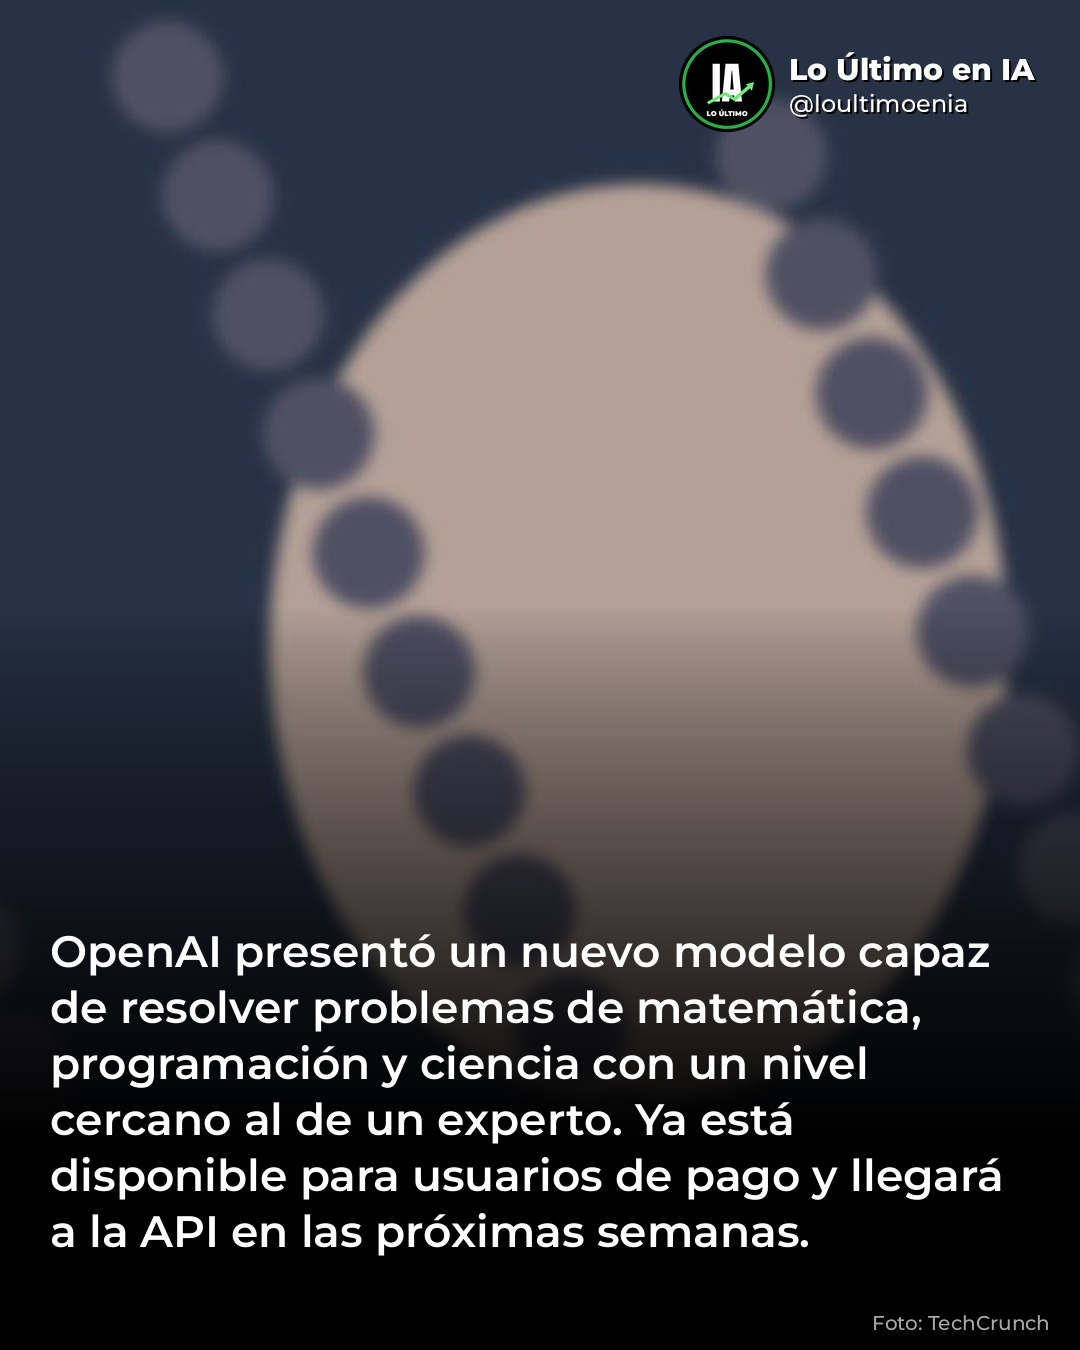
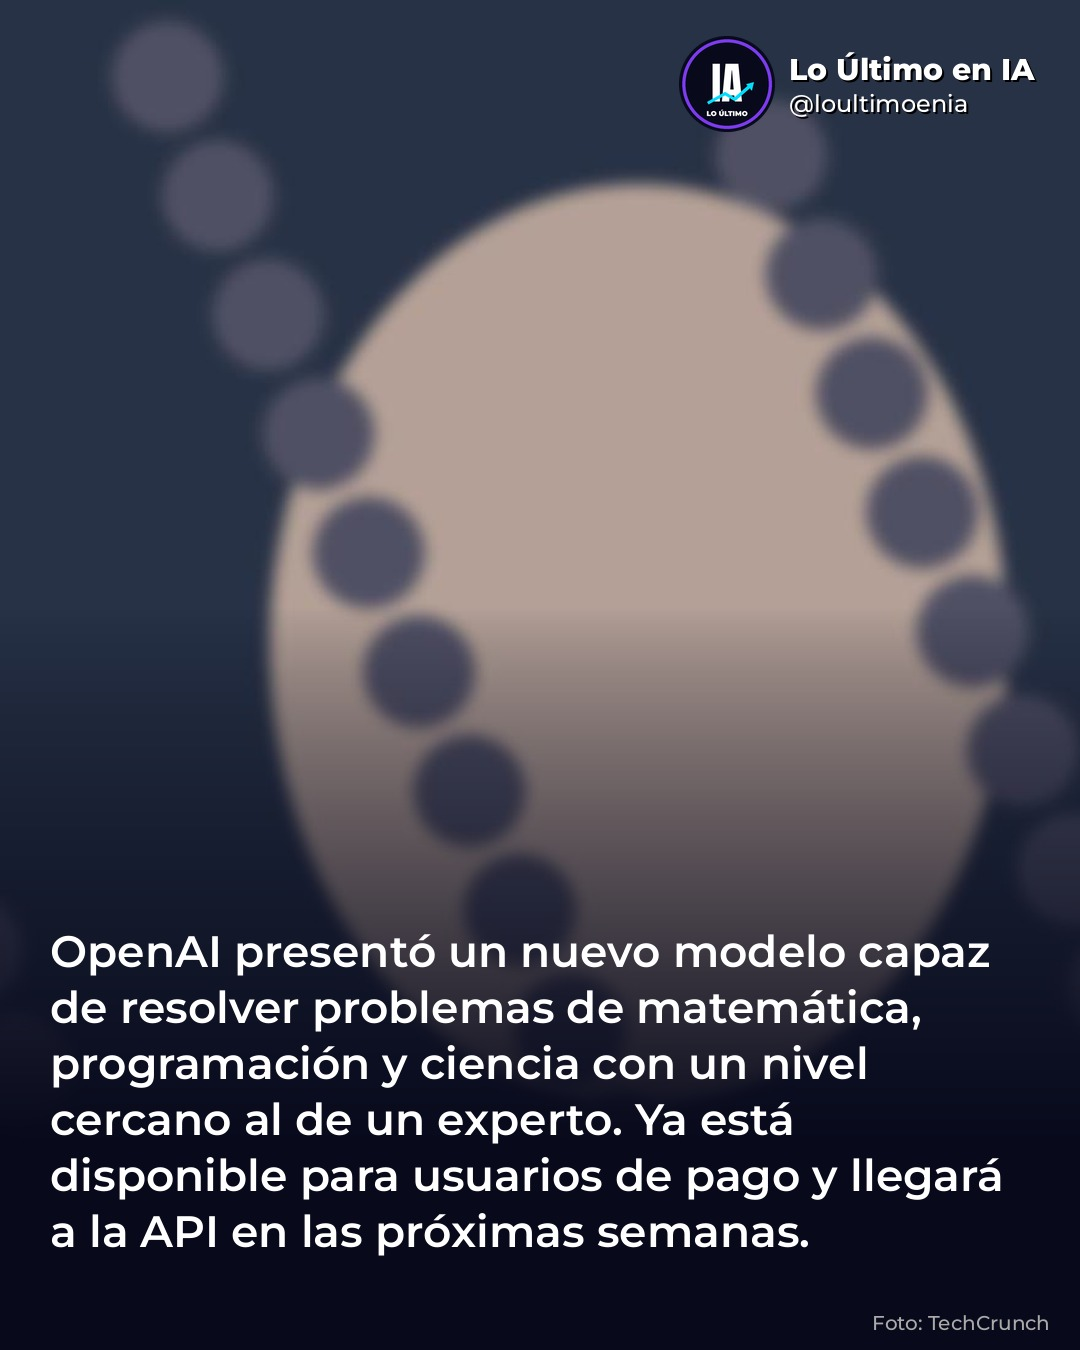
Paleta propia (azul noche, celeste, violeta) y frase de cierre nueva
Claude-Session: https://claude.ai/code/session_012Gu8g4RCfoxpHGCowxeo5P

Changed region(s): [[0.0, 0.7467, 1.0, 1.0], [0.6111, 0.0311, 0.7333, 0.0933]]

diff --git a/src/render.py b/src/render.py
@@ -8,7 +8,7 @@ from pathlib import Path
 import requests
 from PIL import Image, ImageDraw, ImageFilter, ImageFont, ImageOps
 
-from config import BLACK, BRAND_NAME, FONTS, GREEN, GREEN_DARK, HANDLE, SIZE, WHITE
+from config import ACCENT, BG, BRAND_NAME, FONTS, HANDLE, SIZE, VIOLET, VIOLET_DARK, WHITE
 
 W, H = SIZE
 UA = {"User-Agent": "Mozilla/5.0 (compatible; news-carousel-bot/1.0)"}
@@ -41,9 +41,9 @@ def load_image(src: str | Path | None) -> Image.Image:
         return img.convert("RGB")
     except Exception:
         # sin foto: fondo oscuro con brillo verde
-        img = Image.new("RGB", SIZE, (8, 12, 10))
+        img = Image.new("RGB", SIZE, BG)
         d = ImageDraw.Draw(img)
-        d.ellipse((-300, -200, W + 300, H - 300), fill=(20, 70, 35))
+        d.ellipse((-300, -200, W + 300, H - 300), fill=VIOLET_DARK)
         return img.filter(ImageFilter.GaussianBlur(160))
 
 
@@ -63,7 +63,7 @@ def bottom_gradient(img: Image.Image, start: float, strength: int = 255) -> Imag
     for y in range(img.height):
         v = 0 if y < s else min(strength, int(strength * ((y - s) / (img.height - s)) ** 0.8 * 1.3))
         grad.putpixel((0, y), v)
-    black = Image.new("RGB", img.size, BLACK)
+    black = Image.new("RGB", img.size, BG)
     return Image.composite(black, img, grad.resize(img.size))
 
 
@@ -106,7 +106,7 @@ def draw_marked_block(draw, words, top, max_w, max_h, max_size=118, min_size=60,
         total = sum(draw.textlength(w, font=font) for w, _ in line) + space * (len(line) - 1)
         x = (W - total) / 2
         for w, hl in line:
-            draw.text((x, y), w, font=font, fill=GREEN if hl else WHITE)
+            draw.text((x, y), w, font=font, fill=ACCENT if hl else WHITE)
             x += draw.textlength(w, font=font) + space
         y += lh
     return y
@@ -121,16 +121,16 @@ def make_logo(size: int = 200) -> Image.Image:
     s = size * 4  # supersampling
     img = Image.new("RGBA", (s, s), (0, 0, 0, 0))
     d = ImageDraw.Draw(img)
-    d.ellipse((0, 0, s - 1, s - 1), fill=(0, 0, 0, 255))
+    d.ellipse((0, 0, s - 1, s - 1), fill=BG + (255,))
     ring = int(s * 0.035)
-    d.ellipse((ring, ring, s - ring, s - ring), outline=GREEN_DARK, width=ring)
+    d.ellipse((ring, ring, s - ring, s - ring), outline=VIOLET, width=ring)
     f = anton(int(s * 0.46))
     tw = d.textlength("IA", font=f)
     d.text(((s - tw) / 2, s * 0.14), "IA", font=f, fill=WHITE)
     # flecha de "lo último"
     d.line([(s * 0.30, s * 0.70), (s * 0.48, s * 0.60), (s * 0.58, s * 0.66), (s * 0.74, s * 0.52)],
-           fill=GREEN, width=int(s * 0.035), joint="curve")
-    d.polygon([(s * 0.78, s * 0.48), (s * 0.70, s * 0.50), (s * 0.76, s * 0.57)], fill=GREEN)
+           fill=ACCENT, width=int(s * 0.035), joint="curve")
+    d.polygon([(s * 0.78, s * 0.48), (s * 0.70, s * 0.50), (s * 0.76, s * 0.57)], fill=ACCENT)
     f2 = mont(int(s * 0.075), "Black")
     t = "LO ÚLTIMO"
     tw = d.textlength(t, font=f2)
@@ -160,28 +160,26 @@ def credit(img, text):
 
 # ---------- slides ----------
 def slide_cover(photo, headline: str, badge: str, photo_credit: str) -> Image.Image:
-    img = Image.new("RGB", SIZE, BLACK)
+    img = Image.new("RGB", SIZE, BG)
     ph_h = int(H * 0.60)
     ph = bottom_gradient(cover(photo, (W, ph_h)), 0.55)
     img.paste(ph, (0, 0))
     d = ImageDraw.Draw(img)
 
     if badge:
-        r = 190
-        cx, cy = 20 + r - 60, int(ph_h * 0.42)
-        d.ellipse((cx - r, cy - r, cx + r, cy + r), fill=GREEN_DARK)
-        size = 92
-        while size > 30 and d.textlength(badge.upper(), font=anton(size)) > r * 1.45:
-            size -= 4
-        f = anton(size)
-        tw = d.textlength(badge.upper(), font=f)
-        d.text((cx - tw / 2 + 20, cy - size * 0.62), badge.upper(), font=f, fill=WHITE)
+        f = anton(72)
+        t = badge.upper()
+        tw = d.textlength(t, font=f)
+        bx, by = 40, 40
+        d.rounded_rectangle((bx + 6, by + 8, bx + tw + 66, by + 118), radius=24, fill=VIOLET_DARK)
+        d.rounded_rectangle((bx, by, bx + tw + 60, by + 110), radius=24, fill=VIOLET)
+        d.text((bx + 30, by + 8), t, font=f, fill=WHITE)
 
     # línea con el logo al centro
     ly = ph_h - 10
     logo = make_logo(84)
-    d.line([(40, ly), (W / 2 - 60, ly)], fill=(200, 200, 200), width=3)
-    d.line([(W / 2 + 60, ly), (W - 40, ly)], fill=(200, 200, 200), width=3)
+    d.line([(40, ly), (W / 2 - 60, ly)], fill=ACCENT, width=3)
+    d.line([(W / 2 + 60, ly), (W - 40, ly)], fill=ACCENT, width=3)
     img.paste(logo, (W // 2 - 42, ly - 42), logo)
 
     end_y = draw_marked_block(d, parse_marked(headline), ly + 55, W - 110, H - ly - 200)
@@ -213,11 +211,11 @@ def slide_story(photo, text: str, photo_credit: str, zoom=1.0, focus=(0.5, 0.3))
 
 
 def slide_cta() -> Image.Image:
-    img = Image.new("RGB", SIZE, BLACK)
+    img = Image.new("RGB", SIZE, BG)
     d = ImageDraw.Draw(img)
     # tarjeta de perfil
     x0, y0, x1, y1 = 70, 70, W - 70, 660
-    d.rounded_rectangle((x0, y0, x1, y1), radius=60, outline=WHITE, width=14, fill=(5, 5, 5))
+    d.rounded_rectangle((x0, y0, x1, y1), radius=60, outline=ACCENT, width=10, fill=(14, 18, 44))
     f = mont(46, "Bold")
     d.text((x0 + 60, y0 + 60), "←", font=f, fill=WHITE)
     d.text((x0 + 150, y0 + 58), HANDLE.lstrip("@"), font=f, fill=WHITE)
@@ -234,17 +232,17 @@ def slide_cta() -> Image.Image:
     bio = ["Noticias de IA en español", "Explicado simple, sin vueltas", "Activá las notificaciones"]
     for i, b in enumerate(bio):
         by = y0 + 410 + i * 46
-        d.ellipse((x0 + 64, by + 13, x0 + 80, by + 29), fill=GREEN)
+        d.ellipse((x0 + 64, by + 13, x0 + 80, by + 29), fill=ACCENT)
         d.text((x0 + 100, y0 + 410 + i * 46), b, font=fm, fill=WHITE)
     # botón
     bx0, by0, bx1, by1 = x1 - 330, y0 + 420, x1 - 50, y0 + 500
-    d.rounded_rectangle((bx0 + 4, by0 + 8, bx1 + 4, by1 + 8), radius=40, fill=(20, 80, 40))
-    d.rounded_rectangle((bx0, by0, bx1, by1), radius=40, fill=(76, 175, 80))
+    d.rounded_rectangle((bx0 + 4, by0 + 8, bx1 + 4, by1 + 8), radius=40, fill=VIOLET_DARK)
+    d.rounded_rectangle((bx0, by0, bx1, by1), radius=40, fill=VIOLET)
     ft = mont(38, "Bold")
     t = "Síguenos"
     d.text(((bx0 + bx1 - d.textlength(t, font=ft)) / 2, by0 + 16), t, font=ft, fill=WHITE)
 
-    draw_marked_block(d, parse_marked("SI TE GUSTAN LAS NOTICIAS DE *IA* EN *TENDENCIA* ESTA PÁGINA ES PARA TI"),
+    draw_marked_block(d, parse_marked("SEGUINOS Y ENTERATE *PRIMERO* DE TODO LO *NUEVO* EN IA"),
                       720, W - 130, 580, max_size=130)
     return img
 

diff --git a/src/config.py b/src/config.py
@@ -10,9 +10,10 @@ POSTS_DIR = ROOT / "posts"
 # ---- Marca ----
 BRAND_NAME = "Lo Último en IA"
 HANDLE = os.getenv("IG_HANDLE") or "@loultimoenia"
-GREEN = (110, 231, 120)       # verde de resaltado
-GREEN_DARK = (40, 170, 70)
-BLACK = (0, 0, 0)
+ACCENT = (0, 220, 255)        # celeste eléctrico: palabras resaltadas
+VIOLET = (124, 58, 237)       # violeta: logo, etiqueta y botón
+VIOLET_DARK = (60, 20, 140)
+BG = (8, 10, 28)              # azul noche de fondo
 WHITE = (255, 255, 255)
 SIZE = (1080, 1350)           # formato vertical 4:5 de Instagram
 

diff --git a/README.md b/README.md
@@ -1,7 +1,7 @@
 # Lo Último en IA — bot de Instagram
 
-Publica solo carruseles de noticias de IA con el estilo de la cuenta de referencia:
-portada con foto + titular grande con palabras en verde, 2 imágenes con la explicación
+Publica solo carruseles de noticias de IA con estilo propio (azul noche, celeste y violeta):
+portada con foto + titular grande con palabras en celeste, 2 imágenes con la explicación
 y una imagen final de "Síguenos".
 
 ![ejemplo](docs/ejemplo/preview.jpg)
